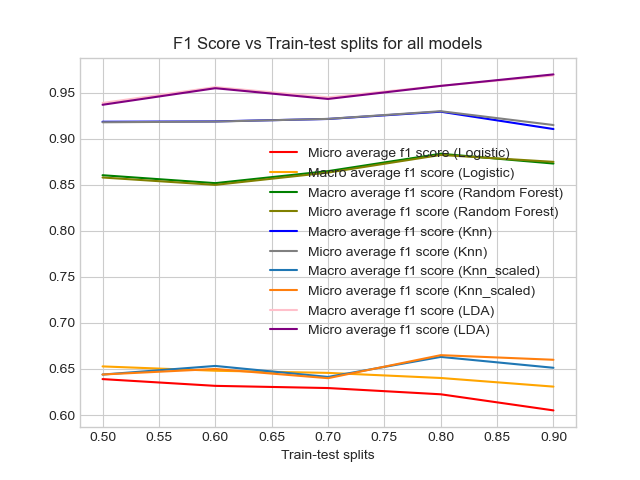
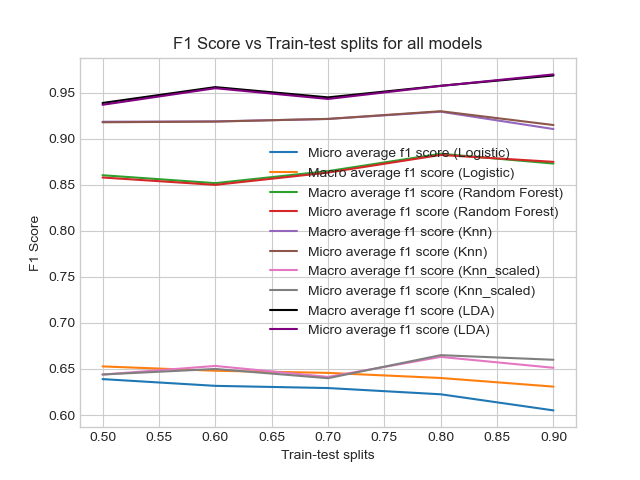
General editing

diff --git a/main.py b/main.py
@@ -3,6 +3,7 @@ import csv
 import numpy as np
 import matplotlib.pyplot as plt
 import scipy.sparse
+from DataAnalysis import corrleation_heatmap
 from SoftmaxRegression import SoftmaxRegression
 from RandomForest import RandomForest
 from Knn import Knn
@@ -17,13 +18,15 @@ from Knn import ideal_k
 def main(ifname):
     plt.style.use('seaborn-whitegrid')
 
+    #Correlation Heatmap
+    corrleation_heatmap(ifname)
     #Random Forest graphs:
-    rf_hyperparameters('MobilePricingUpdated.csv')
-    oob_error_rf('MobilePricingUpdated.csv')
+    rf_hyperparameters(ifname)
+    oob_error_rf(ifname)
     #Knn graphs and prints ideal k:
-    ideal_k('MobilePricingUpdated.csv')
-    Knn_hyperparameters('MobilePricingUpdated.csv')
-    error_function_Knn('MobilePricingUpdated.csv')
+    ideal_k(ifname)
+    Knn_hyperparameters(ifname)
+    error_function_Knn(ifname)
 
 #Create 3 empty lists for each of the models, in order to append later values in order to create a plot.
 
@@ -89,23 +92,25 @@ def main(ifname):
     plt.plot(nvals,acc_Knnl_scaled, label='Accuracy on test data (Knn_scaled)')
     plt.plot(nvals,acc_LDA, label='Accuracy on test data (LDA)')
     plt.xlabel('Train-test splits')
+    plt.ylabel('Accuracy')
     plt.title('Accuracy vs Train-test Splits for all models')
     plt.legend(loc="center right")
     plt.savefig('plots/Accuracy Graph.png')
     plt.close()
 
    
-    plt.plot(nvals, microf1_scores, label='Micro average f1 score (Logistic)', color='red')
-    plt.plot(nvals, macrof1_scores, label= 'Macro average f1 score (Logistic)', color='orange')
-    plt.plot(nvals, macrof1_RF, label= 'Macro average f1 score (Random Forest)', color='green')
-    plt.plot(nvals, microf1_RF, label= 'Micro average f1 score (Random Forest)', color='olive')
-    plt.plot(nvals, macro_f1_Knnl, label= 'Macro average f1 score (Knn)', color='blue')
-    plt.plot(nvals, micro_f1_Knnl, label= 'Micro average f1 score (Knn)', color='grey')
+    plt.plot(nvals, microf1_scores, label='Micro average f1 score (Logistic)')
+    plt.plot(nvals, macrof1_scores, label= 'Macro average f1 score (Logistic)')
+    plt.plot(nvals, macrof1_RF, label= 'Macro average f1 score (Random Forest)')
+    plt.plot(nvals, microf1_RF, label= 'Micro average f1 score (Random Forest)')
+    plt.plot(nvals, macro_f1_Knnl, label= 'Macro average f1 score (Knn)')
+    plt.plot(nvals, micro_f1_Knnl, label= 'Micro average f1 score (Knn)')
     plt.plot(nvals, macro_f1_Knnl_scaled, label= 'Macro average f1 score (Knn_scaled)')
     plt.plot(nvals, micro_f1_Knnl_scaled, label= 'Micro average f1 score (Knn_scaled)')
-    plt.plot(nvals, macro_f1_LDA, label= 'Macro average f1 score (LDA)', color='pink')
+    plt.plot(nvals, macro_f1_LDA, label= 'Macro average f1 score (LDA)', color='black')
     plt.plot(nvals, micro_f1_LDA, label= 'Micro average f1 score (LDA)', color='purple')
     plt.xlabel('Train-test splits')
+    plt.ylabel('F1 Score')
     plt.title('F1 Score vs Train-test splits for all models')
     plt.legend(loc="center right")
     plt.savefig('plots/F1 Score Graph.png')

diff --git a/DataAnalysis.py b/DataAnalysis.py
@@ -2,15 +2,22 @@ import numpy as np
 import pandas as pd 
 import matplotlib.pyplot as plt
 import seaborn as sns
-
-def data_analysis(dataset):
+def preprocessing(dataset):
     df=pd.read_csv(dataset)
-    fig = sns.jointplot(data=df, x='ram', y='price_range', color='blue', kind='kde')
-    plt.xlabel('RAM in MB')
-    plt.ylabel('Price Range')
-    plt.savefig('RAMvsPrice.png')
-    return fig
-data_analysis('MobilePricingUpdated.csv')
+    #We could remove the three_g column as when a phone has 4_g it automatically has 3_g. Also in everyday now, 4_g is more relevant
+    df_updated=df.drop(['three_g'], axis=1)
+    df_updated.to_csv('MobilePricingUpdated.csv', index=False)
+
+
+def corrleation_heatmap(dataset):
+    df=pd.read_csv(dataset)
+    fig, ax = plt.subplots(figsize=(15,15))
+    sns.heatmap(df.corr(), annot = True, fmt= '.1g', vmin=-1, vmax=1, cmap='coolwarm', mask=np.triu(df.corr()))
+    plt.title('Correlation between Features')
+    plt.savefig('plots/CorrelationHeatmap')
+    plt.close()
+
+
 
 
 df=pd.read_csv('MobilePricingUpdated.csv') #Importing the preprocessed dataset
@@ -22,5 +29,5 @@ plt.legend()
 plt.xlabel('MegaPixels')
 plt.ylabel('Number of phones')
 
-plt.show()
+#plt.show()
 

diff --git a/plots.py b/plots.py
@@ -22,7 +22,7 @@ def rf_hyperparameters(dataset):
     mi_f1=[]
     ma_f1=[]
     for i in n_range:
-        RFClassifier = RandomForestClassifier(n_estimators=i, random_state=4, max_features=0.2)
+        RFClassifier = RandomForestClassifier(n_estimators=i, random_state=4)
         RFClassifier.fit(X_train,Y_train)
         y_pred_RF = RFClassifier.predict(X_test)
         acc = accuracy(y_pred_RF, Y_test) 
@@ -50,6 +50,7 @@ def rf_hyperparameters(dataset):
     plt.legend()
     plt.savefig('plots/Random Forest F1 Score Graph')
     plt.close()
+    print("The optimal choice for n_estimators in Random Forest is ", acc_scores.index(max(acc_scores))+10)
     
     
 
@@ -146,4 +147,4 @@ oob_error_rf('MobilePricingUpdated.csv')
 
 
 
-rf_hyperparameters('MobilePricingUpdated.csv')
+

diff --git a/README.md b/README.md
@@ -16,11 +16,7 @@ Price Ranges for Classification:
 1 - medium cost
 2 - high cost
 3 - very high cost
-**abstract and Intro (5 marks)**-
-**Background (5 marks)**- 
-**Dataset (10 marks)**-
-**Method (15 marks)**-
-**Results, Experiments, Evaluation (15 marks)**-
+
 **Discussion (5 marks)**- Could talk about how there so many companies competing now with the price ranges, where only like 5 years ago there were only like 2 ranges (cheap and high end), but then iPhone X 999 dollars price increased the range and now there are many companies trying to get into the market (Samsung, ASUS, OnePlus etc)
 Also about new quirky concepts too with foldable and different features like LG Wing
 
@@ -40,15 +36,8 @@ https://www.youtube.com/watch?v=u41Zt6z5s7A points budget system and spending it
 
 
 
-For Metrics in Results section (applying them to multi-class classification):
-https://medium.com/synthesio-engineering/precision-accuracy-and-f1-score-for-multi-label-classification-34ac6bdfb404 Used this for the F1 Score (expanding from binary case) calculated the Macro Average F1 Score
-
 A little more information on the Softmax Function and associated loss and gradient values:
 https://www.kdnuggets.com/2016/07/softmax-regression-related-logistic-regression.html
-
-
-
-
 
 
 
@@ -56,17 +45,21 @@ https://www.kdnuggets.com/2016/07/softmax-regression-related-logistic-regression
 In this project we have used the following Python libraries:
 - Numpy (For mathematical calculations for the data)
 - Matplotlib (For visualisation of the dataset)
+- Seaborn (Additional visualisation)
 - Pandas (For helping to manipulate the dataset in a reliable way)
 - Time (For duration of model calculations)
 - sklearn (For the 2 models outside of lectures)
+- Scipy (For Softmax Regression model)
+- sys (For the main Python file to run the experiments)
 - metrics (Our own local library, where we have reconstructed the metrics for multi-class classification problems)
-- Scipy
+
 
 
 ## Interface instructions for Each Model
 "Will be 4 models here and for each one will give the commands to run it 
 Example of command
- python main.py <DATA FILE> <COMMAND LINE OPTIONS/FLAGS>
+Main command for plots and results
+ python main.py MobilePricingUpdated.csv
 
 ## Reproducing the results (duration of the runtime)
 "max 15 to do all the running"
